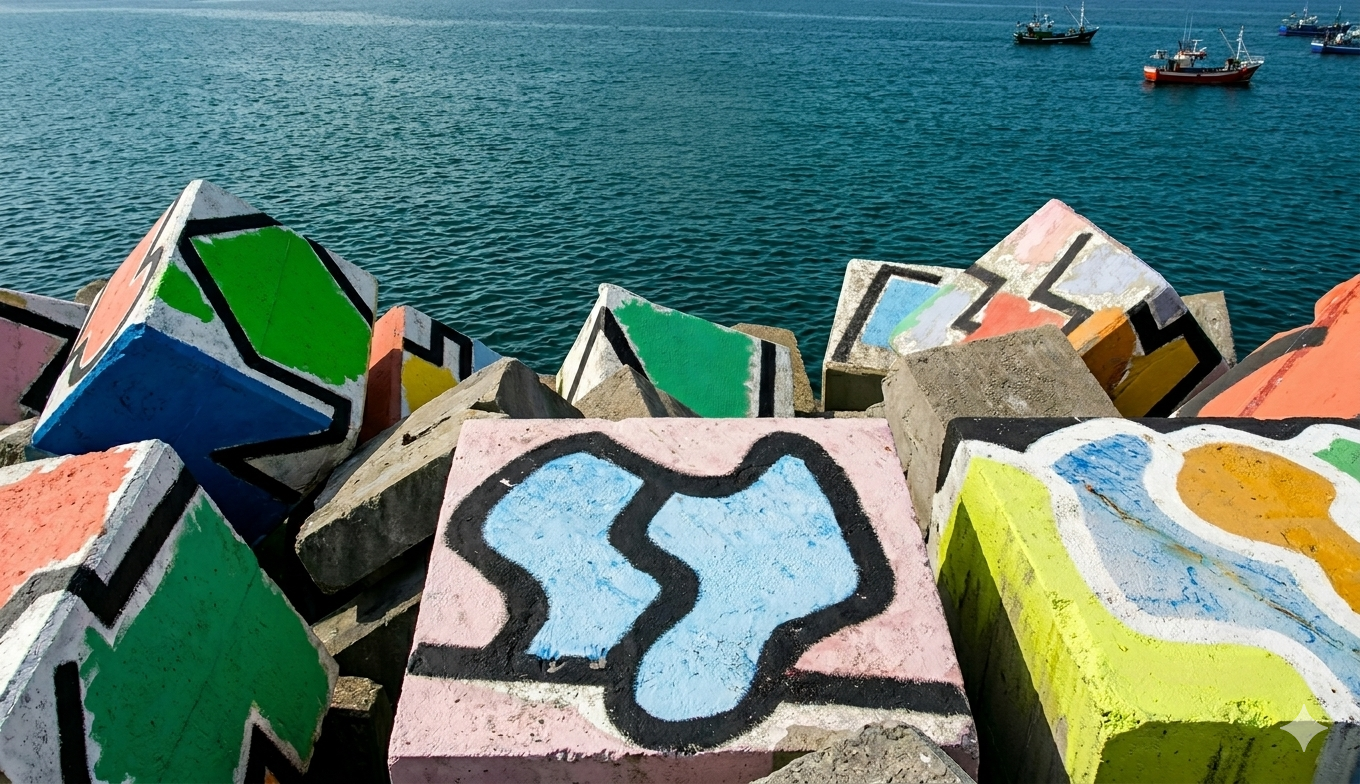
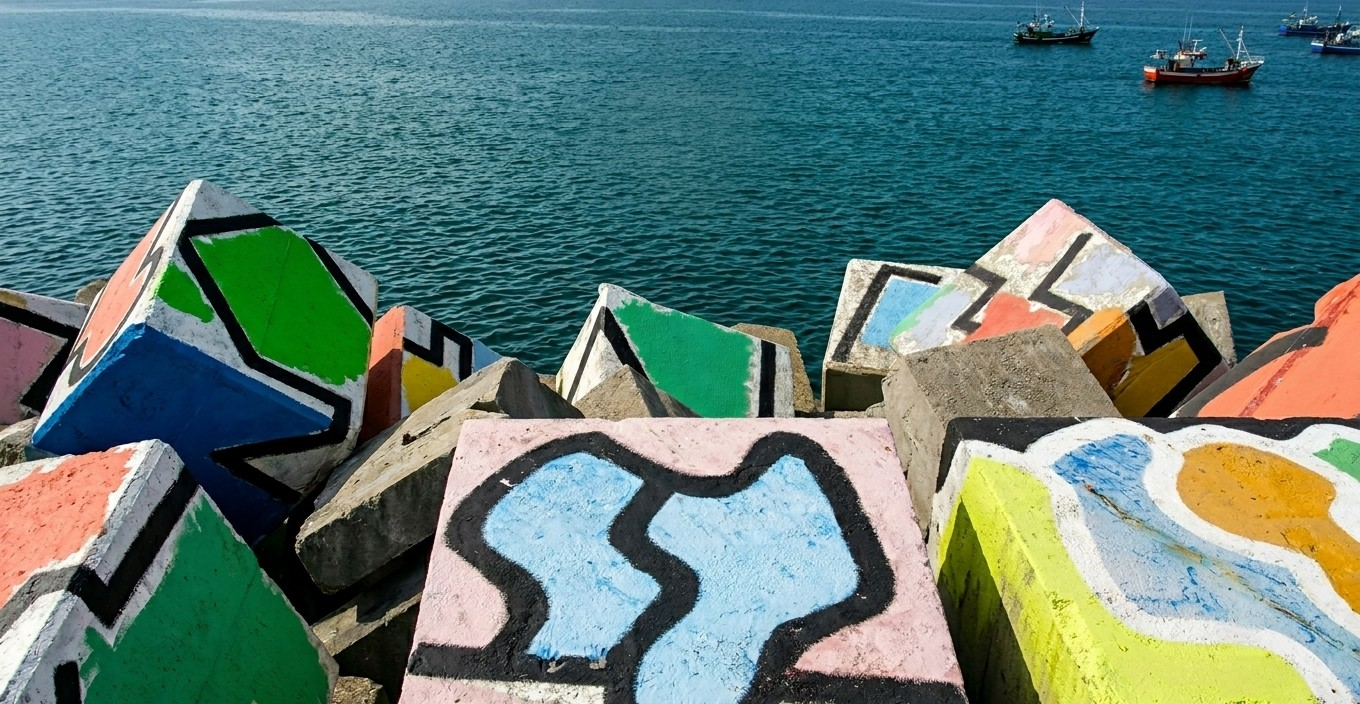
actualizacion de contenido del evento semana negra

diff --git a/Lenguaje de marcas/evento-princesa.html b/Lenguaje de marcas/evento-princesa.html
@@ -1,0 +1,88 @@
+<!DOCTYPE html>
+<html lang="es">
+<head>
+    <meta charset="UTF-8">
+    <meta name="viewport" content="width=device-width, initial-scale=1.0">
+    <title>HAPPINESS&Co - Premios Princesa de Asturias 2026</title>
+    <link rel="stylesheet" href="styles.css">
+</head>
+<body>
+
+    <header class="cabecera-principal">
+        <div class="contenedor-cabecera">
+            <div class="logotipo">
+                <a href="index.html">
+                    <img src="assets/happines-co-blanco-rosa.jpg" alt="Logo">
+                </a>
+            </div>
+            <nav class="navegacion">
+                <ul>
+                    <li><a href="index.html">Inicio</a></li>
+                    <li><a href="proximos.html">Eventos</a></li>
+                    <li><a href="historial.html">Historial</a></li>
+                    <li><a href="sobre-nosotros.html">Nosotros</a></li>
+                    <li><a href="contacto.html">Contacto</a></li>
+                </ul>
+            </nav>
+        </div>
+    </header>
+
+    <main class="seccion-detalle-evento">
+        <div class="contenedor-principal">
+            
+            <div class="columna-contenido">
+                <h2 class="titulo-seccion" style="border-left: 5px solid #c5a059;">Premios Princesa de Asturias 2026</h2>
+                
+                <div class="contenedor-imagen-principal">
+                    <img src="assets/premios-princesa1.jpg" alt="Premios Princesa de Asturias" class="imagen-grande-evento" style="border-bottom: 5px solid #c5a059;">
+                </div>
+
+                <div class="texto-informativo">
+                    <h3>El Faro de la Excelencia Universal</h3>
+                    <p>Los <strong>Premios Princesa de Asturias</strong> representan el máximo reconocimiento que se otorga en España a la excelencia en diversas disciplinas, consolidándose como uno de los certámenes culturales y científicos más prestigiosos del mundo. Con sede en Oviedo, la Fundación Princesa de Asturias trabaja bajo el firme propósito de exaltar y promocionar los valores científicos, culturales y humanísticos que forman parte del patrimonio común de la humanidad.</p>
+                    
+                    <p>Lo que en 1980 comenzó como un vínculo entre el Principado y su heredero, ha evolucionado hasta convertirse en un símbolo global de progreso. Cada año, la ciudad de Oviedo se transforma en el epicentro del pensamiento universal, acogiendo a las mentes más brillantes, a las instituciones más solidarias y a los artistas que han sabido transformar la realidad a través de su obra.</p>
+
+                    <p>La estructura de los galardones permite abrazar todas las facetas del conocimiento y la creación humana, otorgando estatuillas diseñadas por Joan Miró en categorías como Artes, Letras, Ciencias Sociales, Investigación Científica, Cooperación Internacional y Concordia. Estos premios enaltecen el esfuerzo, la superación y el ejemplo ético en la competición y en la vida.</p>
+
+                    <p>Más allá de la solemne ceremonia en el <strong>Teatro Campoamor</strong>, la Fundación organiza la "Semana de los Premios", un ambicioso programa cultural que permite al público asturiano interactuar directamente con los premiados a través de encuentros, conciertos y conferencias. En 2026, los Premios reafirman su compromiso con un futuro basado en la razón y la esperanza, demostrando que Asturias sigue siendo el lugar donde el mundo se detiene para aplaudir lo mejor de nosotros mismos.</p>
+                </div>
+            </div>
+
+            <aside class="columna-ficha-tecnica">
+                <div class="tarjeta-resumen-compra">
+                    <h3 class="titulo-info-extra">Detalles del Evento</h3>
+                    <hr class="separador-detalle">
+                    
+                    <div class="dato-ficha">
+                        <p class="etiqueta-ficha" style="color: #c5a059;">FECHA</p>
+                        <p class="valor-ficha">2 JUL 2026</p>
+                    </div>
+
+                    <div class="dato-ficha">
+                        <p class="etiqueta-ficha" style="color: #c5a059;">UBICACIÓN</p>
+                        <p class="valor-ficha">Teatro Campoamor, Oviedo</p>
+                    </div>
+
+                    <div class="dato-ficha">
+                        <p class="etiqueta-ficha" style="color: #c5a059;">CATEGORÍA</p>
+                        <p class="valor-ficha" style="color: #c5a059;">Institucional / Cultura</p>
+                    </div>
+
+                    <div class="bloque-precio-compra">
+                        <p class="precio-actual">ACCESO POR INVITACIÓN</p>
+                        <a href="https://www.fpa.es" target="_blank" class="boton-comprar-tickets" style="background-color: #c5a059;">WEB FUNDACIÓN</a>
+                    </div>
+                </div>
+            </aside>
+
+        </div>
+    </main>
+
+    <footer class="pie-pagina">
+        <img src="assets/happines-co-negro-blanco.jpg" class="logo-pie">
+        <p style="font-size: 10px; letter-spacing: 1px;">PROYECTO REALIZADO POR CARLOS GONZÁLEZ ÁLVAREZ</p>
+    </footer>
+
+</body>
+</html>

diff --git a/Lenguaje de marcas/evento-semana.html b/Lenguaje de marcas/evento-semana.html
@@ -1,0 +1,86 @@
+<!DOCTYPE html>
+<html lang="es">
+<head>
+    <meta charset="UTF-8">
+    <meta name="viewport" content="width=device-width, initial-scale=1.0">
+    <title>HAPPINESS&Co - Semana Negra Gijón 2026</title>
+    <link rel="stylesheet" href="styles.css">
+</head>
+<body>
+
+    <header class="cabecera-principal">
+        <div class="contenedor-cabecera">
+            <div class="logotipo">
+                <a href="index.html">
+                    <img src="assets/happines-co-blanco-rosa.jpg" alt="Logo">
+                </a>
+            </div>
+            <nav class="navegacion">
+                <ul>
+                    <li><a href="index.html">Inicio</a></li>
+                    <li><a href="proximos.html">Eventos</a></li>
+                    <li><a href="historial.html">Historial</a></li>
+                    <li><a href="sobre-nosotros.html">Nosotros</a></li>
+                    <li><a href="contacto.html">Contacto</a></li>
+                </ul>
+            </nav>
+        </div>
+    </header>
+
+    <main class="seccion-detalle-evento">
+        <div class="contenedor-principal">
+            
+            <div class="columna-contenido">
+                <h2 class="titulo-seccion" style="border-left: 5px solid #ff8c00;">XXXIX Semana Negra</h2>
+                
+                <div class="contenedor-imagen-principal">
+                    <img src="assets/semana-negra1.jpg" alt="Semana Negra Gijón" class="imagen-grande-evento" style="border-bottom: 5px solid #ff8c00;">
+                </div>
+
+                <div class="texto-informativo">
+                    <h3>Cultura, Crimen y Literatura a Orillas del Cantábrico</h3>
+                    <p>La <strong>Semana Negra de Gijón</strong> no es solo un festival literario; es una experiencia cultural única en el mundo que transforma la ciudad en un espacio de debate, arte y fiesta popular. Nacida en 1988, se ha consolidado como el evento de referencia para los amantes de la novela negra, la ciencia ficción, la fantasía y el cómic.</p>
+                    
+                    <p>Durante diez días, el recinto del festival se convierte en una "ciudad dentro de la ciudad" donde conviven las presentaciones de libros de autores internacionales de primer nivel con ferias de artesanía, puestos de comida, música en directo y las icónicas atracciones de feria. Es el lugar donde la alta cultura sale a la calle para mezclarse con el pulso popular.</p>
+
+                    <p>En esta edición de 2026, la Semana Negra refuerza su compromiso social con mesas redondas sobre periodismo de investigación, historia y actualidad política, sin olvidar sus prestigiosos galardones como el <strong>Premio Hammett</strong> a la mejor novela policíaca. Es una cita ineludible para quienes buscan historias que desafíen la realidad bajo el característico ambiente festivo asturiano.</p>
+                </div>
+            </div>
+
+            <aside class="columna-ficha-tecnica">
+                <div class="tarjeta-resumen-compra">
+                    <h3 class="titulo-info-extra">Detalles del Evento</h3>
+                    <hr class="separador-detalle">
+                    
+                    <div class="dato-ficha">
+                        <p class="etiqueta-ficha" style="color: #ff8c00;">FECHA</p>
+                        <p class="valor-ficha">10 JUL 2026</p>
+                    </div>
+
+                    <div class="dato-ficha">
+                        <p class="etiqueta-ficha" style="color: #ff8c00;">UBICACIÓN</p>
+                        <p class="valor-ficha">El Arbeyal, Gijón</p>
+                    </div>
+
+                    <div class="dato-ficha">
+                        <p class="etiqueta-ficha" style="color: #ff8c00;">CATEGORÍA</p>
+                        <p class="valor-ficha" style="color: #ff8c00;">Literatura / Ocio / Feria</p>
+                    </div>
+
+                    <div class="bloque-precio-compra">
+                        <p class="precio-actual">ENTRADA GRATUITA</p>
+                        <a href="https://www.semananegra.org" target="_blank" class="boton-comprar-tickets" style="background-color: #ff8c00;">WEB OFICIAL</a>
+                    </div>
+                </div>
+            </aside>
+
+        </div>
+    </main>
+
+    <footer class="pie-pagina">
+        <img src="assets/happines-co-negro-blanco.jpg" class="logo-pie">
+        <p style="font-size: 10px; letter-spacing: 1px;">PROYECTO REALIZADO POR CARLOS GONZÁLEZ ÁLVAREZ</p>
+    </footer>
+
+</body>
+</html>

diff --git a/Lenguaje de marcas/evento-llanes.html b/Lenguaje de marcas/evento-llanes.html
@@ -39,9 +39,9 @@
 
                 <div class="texto-informativo">
                     <h3>Arte Contemporáneo y Folklore</h3>
-                    <p>Bajo el sobrenombre de la "Folixa del Tardíu" (la fiesta del otoño), Llanes al Cubo nació como una iniciativa estratégica para posicionar a la villa marinera como el corazón de la industria cultural de Asturias. Este evento no es solo una celebración, sino un espacio diseñado para reivindicar y poner en valor los elementos más significativos de la identidad asturiana dentro de un mercado globalizado, demostrando que nuestras raíces tienen un lugar privilegiado en la vanguardia contemporánea.</p>
+                    <p>Bajo el sobrenombre de la <strong>Folixa del Tardíu</strong> (la fiesta del otoño), Llanes al Cubo nació como una iniciativa estratégica para posicionar a la villa marinera como el corazón de la industria cultural de Asturias. Este evento no es solo una celebración, sino un espacio diseñado para reivindicar y poner en valor los elementos más significativos de la identidad asturiana dentro de un mercado globalizado, demostrando que nuestras raíces tienen un lugar privilegiado en la vanguardia contemporánea.</p>
                     <p>El festival se asienta sobre dos pilares fundamentales: la riqueza de la tradición propia y su conexión con el Arco Atlántico y la cultura celta. Durante sus jornadas, Llanes se transforma en un escenario vivo donde la cultura toma cada rincón: desde los conciertos de gaita y tonada tradicional hasta las actuaciones de grupos de gran prestigio nacional e internacional que exploran nuevos sonidos.</p>
-                    <p>En 2026, Llanes al Cubo regresa para consolidar esa "folixa" (celebración) necesaria donde la historia, el arte y la identidad se encuentran, reafirmando que la cultura asturiana es un motor vivo, joven y lleno de futuro.</p>
+                    <p>En 2026, Llanes al Cubo regresa para consolidar esa <strong>"folixa"</strong> (celebración) necesaria donde la historia, el arte y la identidad se encuentran, reafirmando que la cultura asturiana es un motor vivo, joven y lleno de futuro.</p>
                 </div>
             </div>
 

diff --git a/Lenguaje de marcas/evento-aquasella.html b/Lenguaje de marcas/evento-aquasella.html
@@ -39,8 +39,8 @@
 
                 <div class="texto-informativo">
                     <h3>Sobre el Festival</h3>
-                    <p>Aquasella nació en 1997 en Arriondas impulsado por La Real Producciones para crear un espacio de electrónica en el norte de España. Lo que empezó como un evento pequeño creció hasta ser uno de los festivales más importantes de Europa con identidad propia. Ha mantenido una línea artística coherente que mezcla artistas nacionales e internacionales siguiendo la evolución del género durante casi tres décadas en un entorno natural singular. Con el tiempo pasó a ser un festival de gran escala con una comunidad fiel de miles de asistentes de distintos países. </p>
-                    <p>En 2026 celebra su 29ª edición consolidado por el éxito de sus últimos sold out y una trayectoria basada en la experiencia y la pasión por la música electrónica, siendo hoy un punto donde conviven historia y futuro.</p>
+                    <p><strong>Aquasella</strong> nació en 1997 en Arriondas impulsado por La Real Producciones para crear un espacio de electrónica en el norte de España. Lo que empezó como un evento pequeño creció hasta ser uno de los festivales más importantes de Europa con identidad propia. Ha mantenido una línea artística coherente que mezcla artistas nacionales e internacionales siguiendo la evolución del género durante casi tres décadas en un entorno natural singular. Con el tiempo pasó a ser un festival de gran escala con una comunidad fiel de miles de asistentes de distintos países. </p>
+                    <p>En 2026 celebra su <strong>29ª edición</strong> consolidado por el éxito de sus últimos sold out y una trayectoria basada en la experiencia y la pasión por la música electrónica, siendo hoy un punto donde conviven historia y futuro.</p>
                 </div>
             </div>
 
